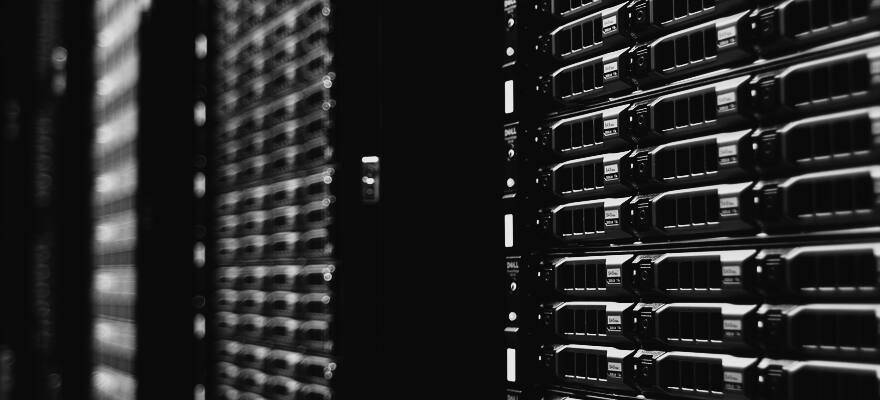
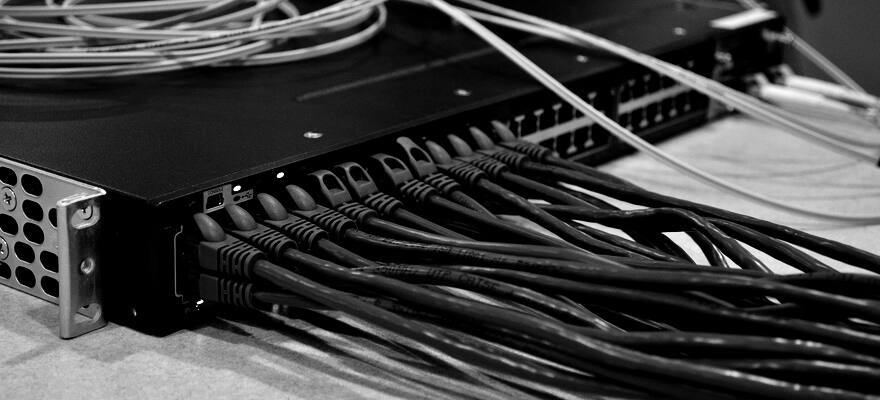
Replay animations on return and replace server racks photo
Swarm opening, typed text, heading decode, count-ups, Results rise and the
terminal intro now reset once off screen and play again on return. The
opening also runs on every load and whenever you come back to the top.

Replace work-6.jpg with a CC0 photo and remove the footer photo credits link.

diff --git a/js/swarm.js b/js/swarm.js
@@ -1,6 +1,7 @@
 // The swarm: labelled tool cursors that inspect the real page. Everything is drawn on one
 // canvas above the site, so the existing animations keep running underneath it untouched.
-// Opening run (once per visit), then small missions per section. window.Swarm = terminal hooks.
+// Opening run (on load and whenever you come back to the top), then small missions per section.
+// Everything replays: typed text and heading decodes reset once off screen. window.Swarm = terminal hooks.
 (function(){
   if(matchMedia('(prefers-reduced-motion:reduce)').matches)return;
   const $=(s,r=document)=>r.querySelector(s),$$=(s,r=document)=>[...r.querySelectorAll(s)];
@@ -260,24 +261,26 @@
   // typed text: the paragraph keeps its full size and line breaks from the start, the untyped
   // part is just invisible, so nothing on the page jumps. Screen readers get the whole text at once.
   function typer(p){
-    const txt=p.textContent.trim(),INK=3;let n=0,t0=0,step=null,last={x:0,y:0};
-    p.innerHTML='<span class="ty-sr"></span><span aria-hidden="true"><span class="ty-done"></span><span class="ty-caret"></span><span class="ty-ink"></span><span class="ty-rest"></span></span>';
-    p.firstChild.textContent=txt;
-    const [done,caret,ink,rest]=p.lastChild.children;
+    const txt=p.textContent.trim(),INK=3;let n=0,t0=0,step=null,last={x:0,y:0},done,caret,ink,rest;
+    const build=()=>{p.innerHTML='<span class="ty-sr"></span><span aria-hidden="true"><span class="ty-done"></span><span class="ty-caret"></span><span class="ty-ink"></span><span class="ty-rest"></span></span>';
+      p.firstChild.textContent=txt;[done,caret,ink,rest]=p.lastChild.children};
     const paint=()=>{done.textContent=txt.slice(0,n);ink.textContent=txt.slice(n,n+INK);rest.textContent=txt.slice(n+INK)};
-    paint();
+    build();paint();
     // quick and slightly uneven, with a short breath after punctuation
     const at=[];let sum=0;for(let i=0;i<txt.length;i++){sum+=rand(10,18)+('.,:;'.includes(txt[i])?85:0);at.push(sum)}
     const this_={
       get started(){return !!step},get finished(){return n>=txt.length},
       pos(){if(caret.isConnected){const r=R(caret);last={x:r.x+2,y:r.y+r.h-2}}return last},
       start(onDone){if(step)return;t0=now;step=()=>{const e=now-t0;let k=n;while(k<txt.length&&at[k]<=e)k++;if(k==n)return;n=k;
-        if(n>=txt.length){ticks.delete(step);this_.pos();p.textContent=txt;if(onDone)onDone()}else paint()};ticks.add(step)}};
+        if(n>=txt.length){ticks.delete(step);this_.pos();p.textContent=txt;if(onDone)onDone()}else paint()};ticks.add(step)},
+      reset(){if(!step)return;ticks.delete(step);step=null;n=0;build();paint()}};
     return this_;
   }
+  // typed text goes blank again only once it is fully off screen, so nothing visibly disappears
+  const whenGone=(el,fn)=>new IntersectionObserver(e=>{if(!e[0].isIntersecting)fn()}).observe(el);
 
   // work: a tool types each description while the card gets boxed and tagged as an exhibit
-  $$('.pj').forEach((card,i)=>{const para=$('p',card),type=para?typer(para):null;mission(card,c=>{
+  $$('.pj').forEach((card,i)=>{const para=$('p',card),type=para?typer(para):null;if(type)whenGone(card,type.reset);mission(card,c=>{
     const title=$('h3',card).textContent,rect=()=>R(card);
     const f=c.frame(rect,{tone:i%2?'am':'or',tag:`EX-0${i+1}`,note:`fnv1a ${fnv(title)}`});
     tw(f,{p:1},.9,lin);
@@ -290,15 +293,15 @@
 
   // journey: a tool rides the tip of the line and calls out the year it has reached
   const tl=$('#tl');
-  const logTypers=tl&&window.gsap?$$('li',tl).map(li=>{const q=$('p',li);return q?typer(q):null}):[];
+  const logTypers=tl&&window.gsap?$$('li',tl).map(li=>{const q=$('p',li);if(!q)return null;const t=typer(q);whenGone(li,t.reset);return t}):[];
   if(tl&&window.gsap)mission(tl,c=>{
     const [a]=c.take(1);if(a){a.follow=.25}
     const items=$$('li',tl),tip=()=>{const r=R(tl),p=parseFloat(tl.style.getPropertyValue('--p'))||0;return{x:r.x+5,y:r.y+6+p*(r.h-12)}};
     let last=-1,box=null;
     if(a)a.go(tip,.7);
     c.tick(()=>{const y=tip().y;let n=0;items.forEach((li,i)=>{if(li.getBoundingClientRect().top<=y+10)n=i});
-      if(n==last)return;last=n;if(a){a.label=$('time',items[n]).textContent;if(!a.path)a.press()}
       for(let i=0;i<=n;i++)if(logTypers[i])logTypers[i].start();
+      if(n==last)return;last=n;if(a){a.label=$('time',items[n]).textContent;if(!a.path)a.press()}
       if(box)drop(box);const el=$('div',items[n]);box=c.frame(()=>R(el),{tone:'or',dim:false,tag:`log.${n}`,soft:.7});tw(box,{p:1},.7)});
   },'-15% 0px -15% 0px');
 
@@ -329,13 +332,15 @@
 
   /* ---------- headings decode as they rise in ---------- */
   const G='abcdef0123456789/#%&';
-  function decode(span){
-    const txt=span.textContent;span.style.minHeight=span.offsetHeight+'px';const t0=performance.now();let last=0;
-    (function f(t){const p=clamp((t-t0)/950);
+  function decode(span,txt){
+    const k=span.dk=(span.dk||0)+1;span.textContent=txt;span.style.minHeight='';span.style.minHeight=span.offsetHeight+'px';const t0=performance.now();let last=0;
+    (function f(t){if(span.dk!=k)return;const p=clamp((t-t0)/950);
       if(t-last>42||p>=1){last=t;const n=Math.floor(out(p)*txt.length);span.textContent=txt.split('').map((c,i)=>i<n||c==' '?c:G[Math.random()*G.length|0]).join('')}
       if(p<1)requestAnimationFrame(f);else{span.textContent=txt;span.style.minHeight=''}})(t0)}
-  $$('h2.line').forEach(h=>{const s=h.firstElementChild;if(!s)return;
-    new MutationObserver((_,o)=>{if(h.classList.contains('in')){o.disconnect();decode(s)}}).observe(h,{attributes:true,attributeFilter:['class']})});
+  // main.js takes .in off again when a heading leaves the screen, so this runs on every return
+  $$('h2.line').forEach(h=>{const s=h.firstElementChild;if(!s)return;const txt=s.textContent;let was=h.classList.contains('in');
+    new MutationObserver(()=>{const on=h.classList.contains('in');if(on==was)return;was=on;
+      if(on)decode(s,txt);else{s.dk=(s.dk||0)+1;s.textContent=txt;s.style.minHeight=''}}).observe(h,{attributes:true,attributeFilter:['class']})});
 
   /* ---------- scroll ruler on the right edge ---------- */
   const rule=document.createElement('div');rule.id='rule';rule.setAttribute('aria-hidden','true');rule.innerHTML='<i><b></b></i>';document.body.appendChild(rule);
@@ -344,20 +349,29 @@
   addEventListener('scroll',onRule,{passive:true});onRule();
 
   /* ---------- start ---------- */
-  let seen=false;try{seen=!!sessionStorage.getItem('swarm-seen')}catch(e){}
-  const play=!seen&&!location.hash&&scrollY<40;
+  const play=!location.hash&&scrollY<40;
   if(play)root.classList.add('swarm-intro');
-  const begin=()=>{if(play){try{sessionStorage.setItem('swarm-seen','1')}catch(e){}intro()}else sync()};
+  const begin=()=>{if(play)intro();else sync()};
   if(root.classList.contains('ready'))begin();else document.addEventListener('site:ready',begin,{once:true});
+
+  // the whole opening again: headline, case file, stamp, 3D object and the swarm
+  function reopen(){
+    $$('.hero .line').forEach(l=>l.classList.remove('in'));
+    const cs=$('.case');if(cs){cs.style.animation='none';void cs.offsetWidth;cs.style.animation=''}
+    if(stamp){stamp.style.animation='none';void stamp.offsetWidth;stamp.style.animation='st .5s var(--ease) 3.05s forwards'}
+    if(window.heroCore)window.heroCore.assemble();
+    $$('.hero .line').forEach((l,i)=>setTimeout(()=>l.classList.add('in'),500+i*130));intro()}
+
+  // scrolling away and coming back to the top runs it again
+  let armed=false,queued=false;
+  addEventListener('scroll',()=>{const y=scrollY;if(y>heroH*.3)armed=true;
+    else if(armed&&!introOn&&!queued&&y<heroH*.08){armed=false;reopen()}},{passive:true});
 
   /* ---------- terminal commands ---------- */
   window.Swarm={
     // same wipe as the nav, then the opening again from the top
-    replay(){const logo=$('.logo');finish();if(logo)logo.click();
-      setTimeout(()=>{$$('.hero .line').forEach(l=>l.classList.remove('in'));
-        if(stamp){stamp.style.animation='none';void stamp.offsetWidth;stamp.style.animation='st .5s var(--ease) 3.05s forwards'}
-        if(window.heroCore)window.heroCore.assemble();
-        $$('.hero .line').forEach((l,i)=>setTimeout(()=>l.classList.add('in'),500+i*130));intro()},900)},
+    replay(){const logo=$('.logo');finish();queued=true;if(logo)logo.click();
+      setTimeout(()=>{queued=false;armed=false;reopen()},900)},
     breach(){
       document.dispatchEvent(new Event('swarm:breach'));
       const term=$('#term'),t0=now,D=2600,bars=[];for(let i=0;i<14;i++)bars.push({y:rand(0,1),h:rand(2,22),s:rand(0,1),o:rand(-40,40)});

diff --git a/js/main.js b/js/main.js
@@ -46,7 +46,7 @@ let n=0;const D=RM?0:1300,t0=performance.now();
 setTimeout(()=>{if(pre.isConnected&&!root.classList.contains('ready'))start()},4000);
 
 /* headings reveal on scroll */
-const io=new IntersectionObserver(es=>es.forEach(e=>{if(e.isIntersecting){e.target.classList.add('in');io.unobserve(e.target)}}),{threshold:.6});
+const io=new IntersectionObserver(es=>es.forEach(e=>{if(e.intersectionRatio>=.6)e.target.classList.add('in');else if(!e.isIntersecting)e.target.classList.remove('in')}),{threshold:[0,.6]});
 $$('.line').filter(l=>!l.closest('.hero')).forEach(l=>io.observe(l));
 
 /* header, clock, back-to-top ring, active nav */
@@ -94,11 +94,12 @@ if(!RM)$$('[data-tilt]').forEach(el=>{
 
 /* count-up stats */
 const sfx={rd:'rd',th:'th','+':'+'};
-$$('[data-n]').forEach(el=>new IntersectionObserver((es,o)=>es.forEach(e=>{
-  if(!e.isIntersecting)return;o.disconnect();
-  const n=+el.dataset.n,s=el.dataset.s,t0=performance.now(),D=RM?1:1400;
-  (function f(t){const p=Math.min((t-t0)/D,1),v=Math.round(n*(1-Math.pow(1-p,4)));
-    el.innerHTML=v+(s?`<small>${sfx[s]}</small>`:'');if(p<1)requestAnimationFrame(f)})(t0)}),{threshold:.6}).observe(el));
+$$('[data-n]').forEach(el=>{let run=0,on=false;new IntersectionObserver(es=>es.forEach(e=>{
+  if(!e.isIntersecting){run++;on=false;el.textContent='0';return}
+  if(on||e.intersectionRatio<.6)return;on=true;
+  const k=++run,n=+el.dataset.n,s=el.dataset.s,t0=performance.now(),D=RM?1:1400;
+  (function f(t){if(k!=run)return;const p=Math.min((t-t0)/D,1),v=Math.round(n*(1-Math.pow(1-p,4)));
+    el.innerHTML=v+(s?`<small>${sfx[s]}</small>`:'');if(p<1)requestAnimationFrame(f)})(t0)}),{threshold:[0,.6]}).observe(el)});
 
 /* copy email */
 const toast=m=>{const t=$('#toast');t.textContent=m;t.classList.add('s');clearTimeout(toast.k);toast.k=setTimeout(()=>t.classList.remove('s'),1800)};
@@ -133,8 +134,8 @@ if(hasGS&&!RM){
     scrollTrigger:{trigger:li,start:'top 85%',toggleActions:'play none none reverse',onEnter:()=>li.classList.add('on'),onLeaveBack:()=>li.classList.remove('on')}}));
 
   // results: staggered rise
-  ScrollTrigger.batch('.nums>div,.rows li,.tk>div',{start:'top 92%',once:true,
-    onEnter:b=>gsap.from(b,{y:34,opacity:0,stagger:.07,duration:.9,ease:'power3.out',overwrite:true})});
+  const rise=b=>gsap.fromTo(b,{y:34,opacity:0},{y:0,opacity:1,stagger:.07,duration:.9,ease:'power3.out',overwrite:true});
+  ScrollTrigger.batch('.nums>div,.rows li,.tk>div',{start:'top 92%',onEnter:rise,onEnterBack:rise});
 }
 /* section-to-section transitions */
 if(hasGS&&!RM){

diff --git a/js/terminal.js b/js/terminal.js
@@ -36,6 +36,10 @@
     if(e.key=='ArrowDown'){inp.value=hist[++hi]||'';hi=Math.min(hi,hist.length)}
   });
   document.querySelector('.tq').addEventListener('click',e=>{if(e.target.tagName=='BUTTON'&&!busy){run(e.target.textContent)}});
-  // auto-run once when it scrolls into view
-  new IntersectionObserver((e,o)=>{if(e[0].isIntersecting){o.disconnect();add('Welcome. Running whoami for you...','m');setTimeout(()=>run('whoami'),500)}},{threshold:.5}).observe(document.getElementById('term'));
+  // auto-run each time it scrolls back into view, from a clean screen
+  let fresh=true,tm=0;
+  new IntersectionObserver(e=>{const r=e[0];
+    if(!r.isIntersecting){fresh=true;clearTimeout(tm);return}
+    if(r.intersectionRatio<.5||!fresh||busy||document.activeElement==inp)return;
+    fresh=false;out.innerHTML='';add('Welcome. Running whoami for you...','m');tm=setTimeout(()=>run('whoami'),500)},{threshold:[0,.5]}).observe(document.getElementById('term'));
 })();

diff --git a/js/sections.js b/js/sections.js
@@ -17,8 +17,9 @@
     const jr=el('div','jr');tl.parentNode.insertBefore(jr,tl);jr.appendChild(tl);
     // phones and reduced motion: a photo inside each entry
     items.forEach((li,i)=>{const f=el('figure','lph','<img loading="lazy" decoding="async" alt="" width="760" height="760">');$('img',f).src=src(i);$('div',li).appendChild(f)});
-    const o=new IntersectionObserver(es=>es.forEach(e=>{if(e.isIntersecting){e.target.classList.add('in');o.unobserve(e.target)}}),{rootMargin:'0px 0px -12% 0px'});
-    $$('.lph').forEach(f=>o.observe(f));
+    const o=new IntersectionObserver(es=>es.forEach(e=>{if(e.isIntersecting)e.target.classList.add('in')}),{rootMargin:'0px 0px -12% 0px'});
+    const o2=new IntersectionObserver(es=>es.forEach(e=>{if(!e.isIntersecting)e.target.classList.remove('in')}));
+    $$('.lph').forEach(f=>{o.observe(f);o2.observe(f)});
 
     if(moving){
       const stage=el('aside','jstage');stage.setAttribute('aria-hidden','true');

diff --git a/index.html b/index.html
@@ -182,7 +182,7 @@
 </div></section>
 </main>
 
-<footer class="ft"><div class="wrap"><span>&copy; 2026 Abhaya Chand. Kathmandu, Nepal.</span><span>Offensive work shown here was done in labs or on systems I own. <a href="img/credits.txt" target="_blank" rel="noopener">Photo credits</a></span></div></footer>
+<footer class="ft"><div class="wrap"><span>&copy; 2026 Abhaya Chand. Kathmandu, Nepal.</span><span>Offensive work shown here was done in labs or on systems I own.</span></div></footer>
 <button id="up" aria-label="Back to top"><svg viewBox="0 0 44 44"><circle cx="22" cy="22" r="20" id="upc"/></svg><b>&uarr;</b></button>
 <div id="toast" role="status"></div>
 
